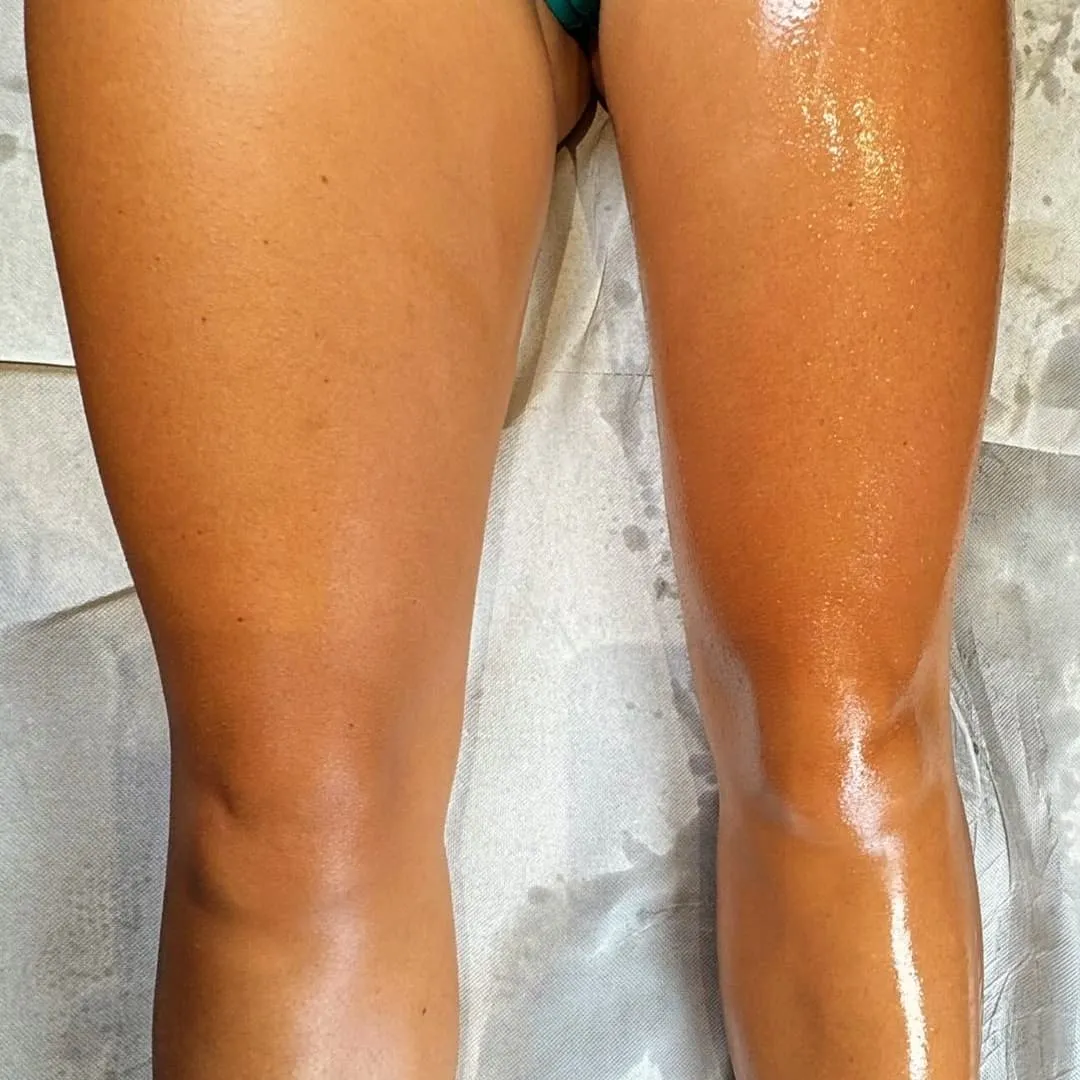
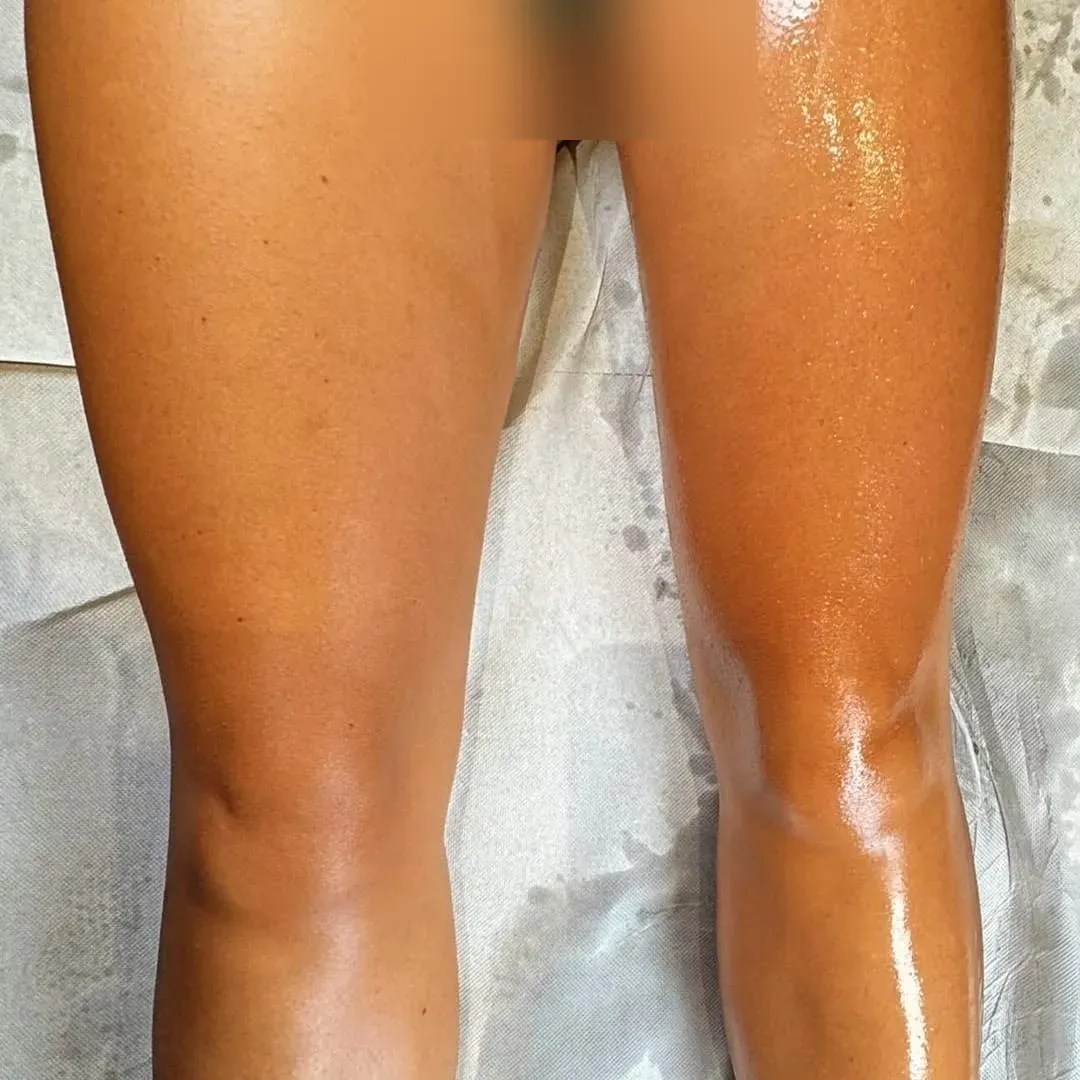
Cover intimate areas on result photos
Blur the underwear/groin regions on result-legs and result-legs-2, and
drop the lower-abdomen close-up (result-abdomen-3) from the band, so the
results gallery stays tasteful and on-brand. tsc and build pass.

Claude-Session: https://claude.ai/code/session_01D3jLvE8L8YY6Fur14Zpfsc

Changed region(s): [[0.4583, 0.0, 0.6111, 0.1528]]

diff --git a/src/components/sections/Results.tsx b/src/components/sections/Results.tsx
@@ -1,7 +1,6 @@
 import { motion } from "framer-motion";
 import abdomen1 from "../../assets/result-abdomen-1.webp";
 import abdomen2 from "../../assets/result-abdomen-2.webp";
-import abdomen3 from "../../assets/result-abdomen-3.webp";
 import abdomen4 from "../../assets/result-abdomen-4.webp";
 import stomach from "../../assets/result-stomach.webp";
 import thighs from "../../assets/result-thighs.webp";
@@ -13,7 +12,6 @@ const results = [
   { src: waist, caption: "Waist · sculpted contour", alt: "Waist lymphatic drainage before and after, sculpted contour, Elysian Paris London" },
   { src: stomach, caption: "Stomach · flatter & smoother", alt: "Stomach lymphatic drainage before and after, flatter and smoother, Elysian Paris London" },
   { src: thighs, caption: "Thighs · −3 cm in one session", alt: "Thigh lymphatic drainage before and after, minus 3 cm in one session, Elysian Paris London" },
-  { src: abdomen3, caption: "Lower abdomen · decongested", alt: "Lower abdomen lymphatic drainage before and after, decongested, Elysian Paris London" },
   { src: legs2, caption: "Legs · lighter & sculpted", alt: "Legs lymphatic drainage before and after, lighter and sculpted, Elysian Paris London" },
   { src: abdomen4, caption: "Abdomen · before & after", alt: "Abdominal lymphatic drainage before and after, Elysian Paris London" },
   { src: abdomen1, caption: "Abdomen · immediate decongestion", alt: "Abdominal lymphatic drainage before and after, immediate decongestion, Elysian Paris London" },
